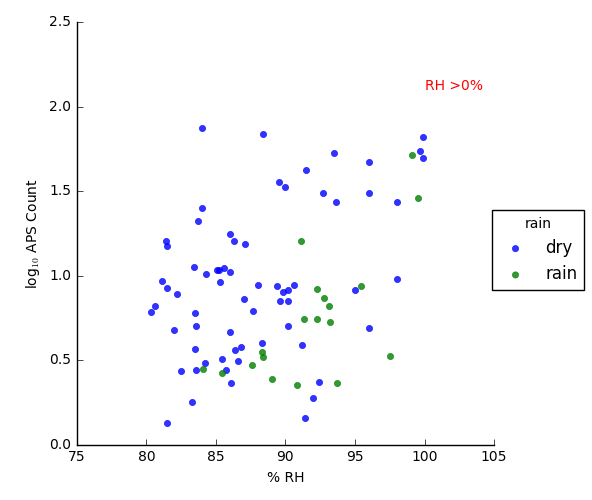
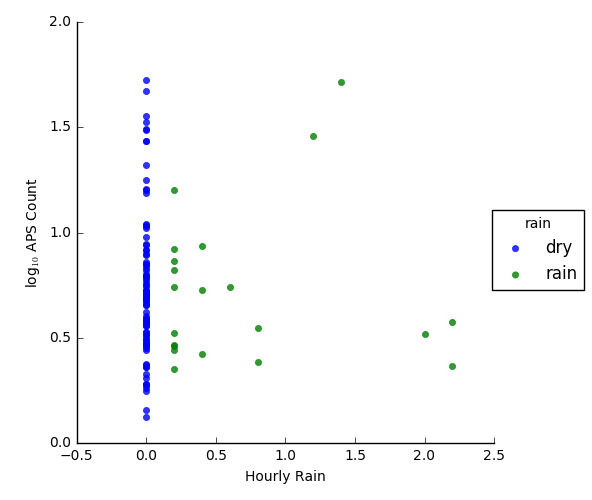
adding some changes to aerosol v humidity

diff --git a/aps_v_humidity.py b/aps_v_humidity.py
@@ -9,7 +9,7 @@ import matplotlib.pyplot as plt
 from directories import farmdirs
 import numpy as np
 import datetime
-
+import matplotlib.dates as mdates
 
 aps_test = pd.read_pickle(farmdirs['pickels']+'aps_toplot_RH100.p')
 
@@ -39,34 +39,40 @@ aps_test = pd.DataFrame(aps_test).rename(columns = {0:'aps'})
 join= pd.merge(aps_test, met_jd, left_index=True, right_index=True)
 
 
-
-
-
-
-
-
-RH = 80
+RH = 0
 title = 'RH >0%'
 join['log_aps']=join['aps'].apply(np.log10)
+
+
+join = join.loc['2016-09-26':'2016-10-22']
 join=join[join['Humidity']>RH]
 
 fig, ax1 = plt.subplots()
-ax1.plot(join.index, join.Humidity, marker = 'o', )
+join_rain = join[join.hourly_rain>0]
+ax1.plot(join_rain.index, join_rain.hourly_rain, marker = 'o', )
+ax1.xaxis.set_major_formatter(mdates.DateFormatter("%m-%d"))
+ax1.xaxis.set_minor_formatter(mdates.DateFormatter("%m-%d"))
+ax1.xaxis.set_minor_locator(mdates.DayLocator())
 
 
 
+ax2=ax1.twinx()
+ax2.plot(join.index, join.aps, marker = 'o',color = 'r' )
+ax2.set_yscale('log')
 
+ax1.tick_params(labelbottom='off')
+ax2.tick_params(labelbottom='off')
 #fig1, ax3 =plt.subplots()
 #ax3.scatter( join.Humidity, join.aps)
 
 import seaborn as sns
 
-ax=sns.lmplot( 'Humidity', 'log_aps',data = join, hue = 'rain', fit_reg=False)
+ax=sns.lmplot( 'hourly_rain', 'log_aps',data = join, hue = 'rain', fit_reg=False)
 cols = list(met_jd)
 #plt.ylim(0,100)
-plt.xlabel('% RH')
+plt.xlabel('Hourly Rain')
 plt.ylabel('log$_{10}$ APS Count')
-plt.ylim(0,2.5)
+#plt.ylim(0,2.5)
 plt.text(100,2.1,title, color ='r')
 plt.savefig(farmdirs['figures']+ 'humidity_aps')
 ###################################################################

diff --git a/untitled7.py b/untitled7.py
@@ -1,0 +1,15 @@
+# -*- coding: utf-8 -*-
+"""
+Created on Tue Nov 28 15:27:59 2017
+
+@author: eardo
+"""
+
+import pandas as pd
+from directories import farmdirs
+
+met=pd.read_pickle(farmdirs['pickels']+'met.p')
+cols = list(met)
+met.drop(cols[0:5], axis =1, inplace =True)
+met.drop(cols[-3], axis =1, inplace =True)
+met.drop(cols[10:12], axis =1, inplace =True)
